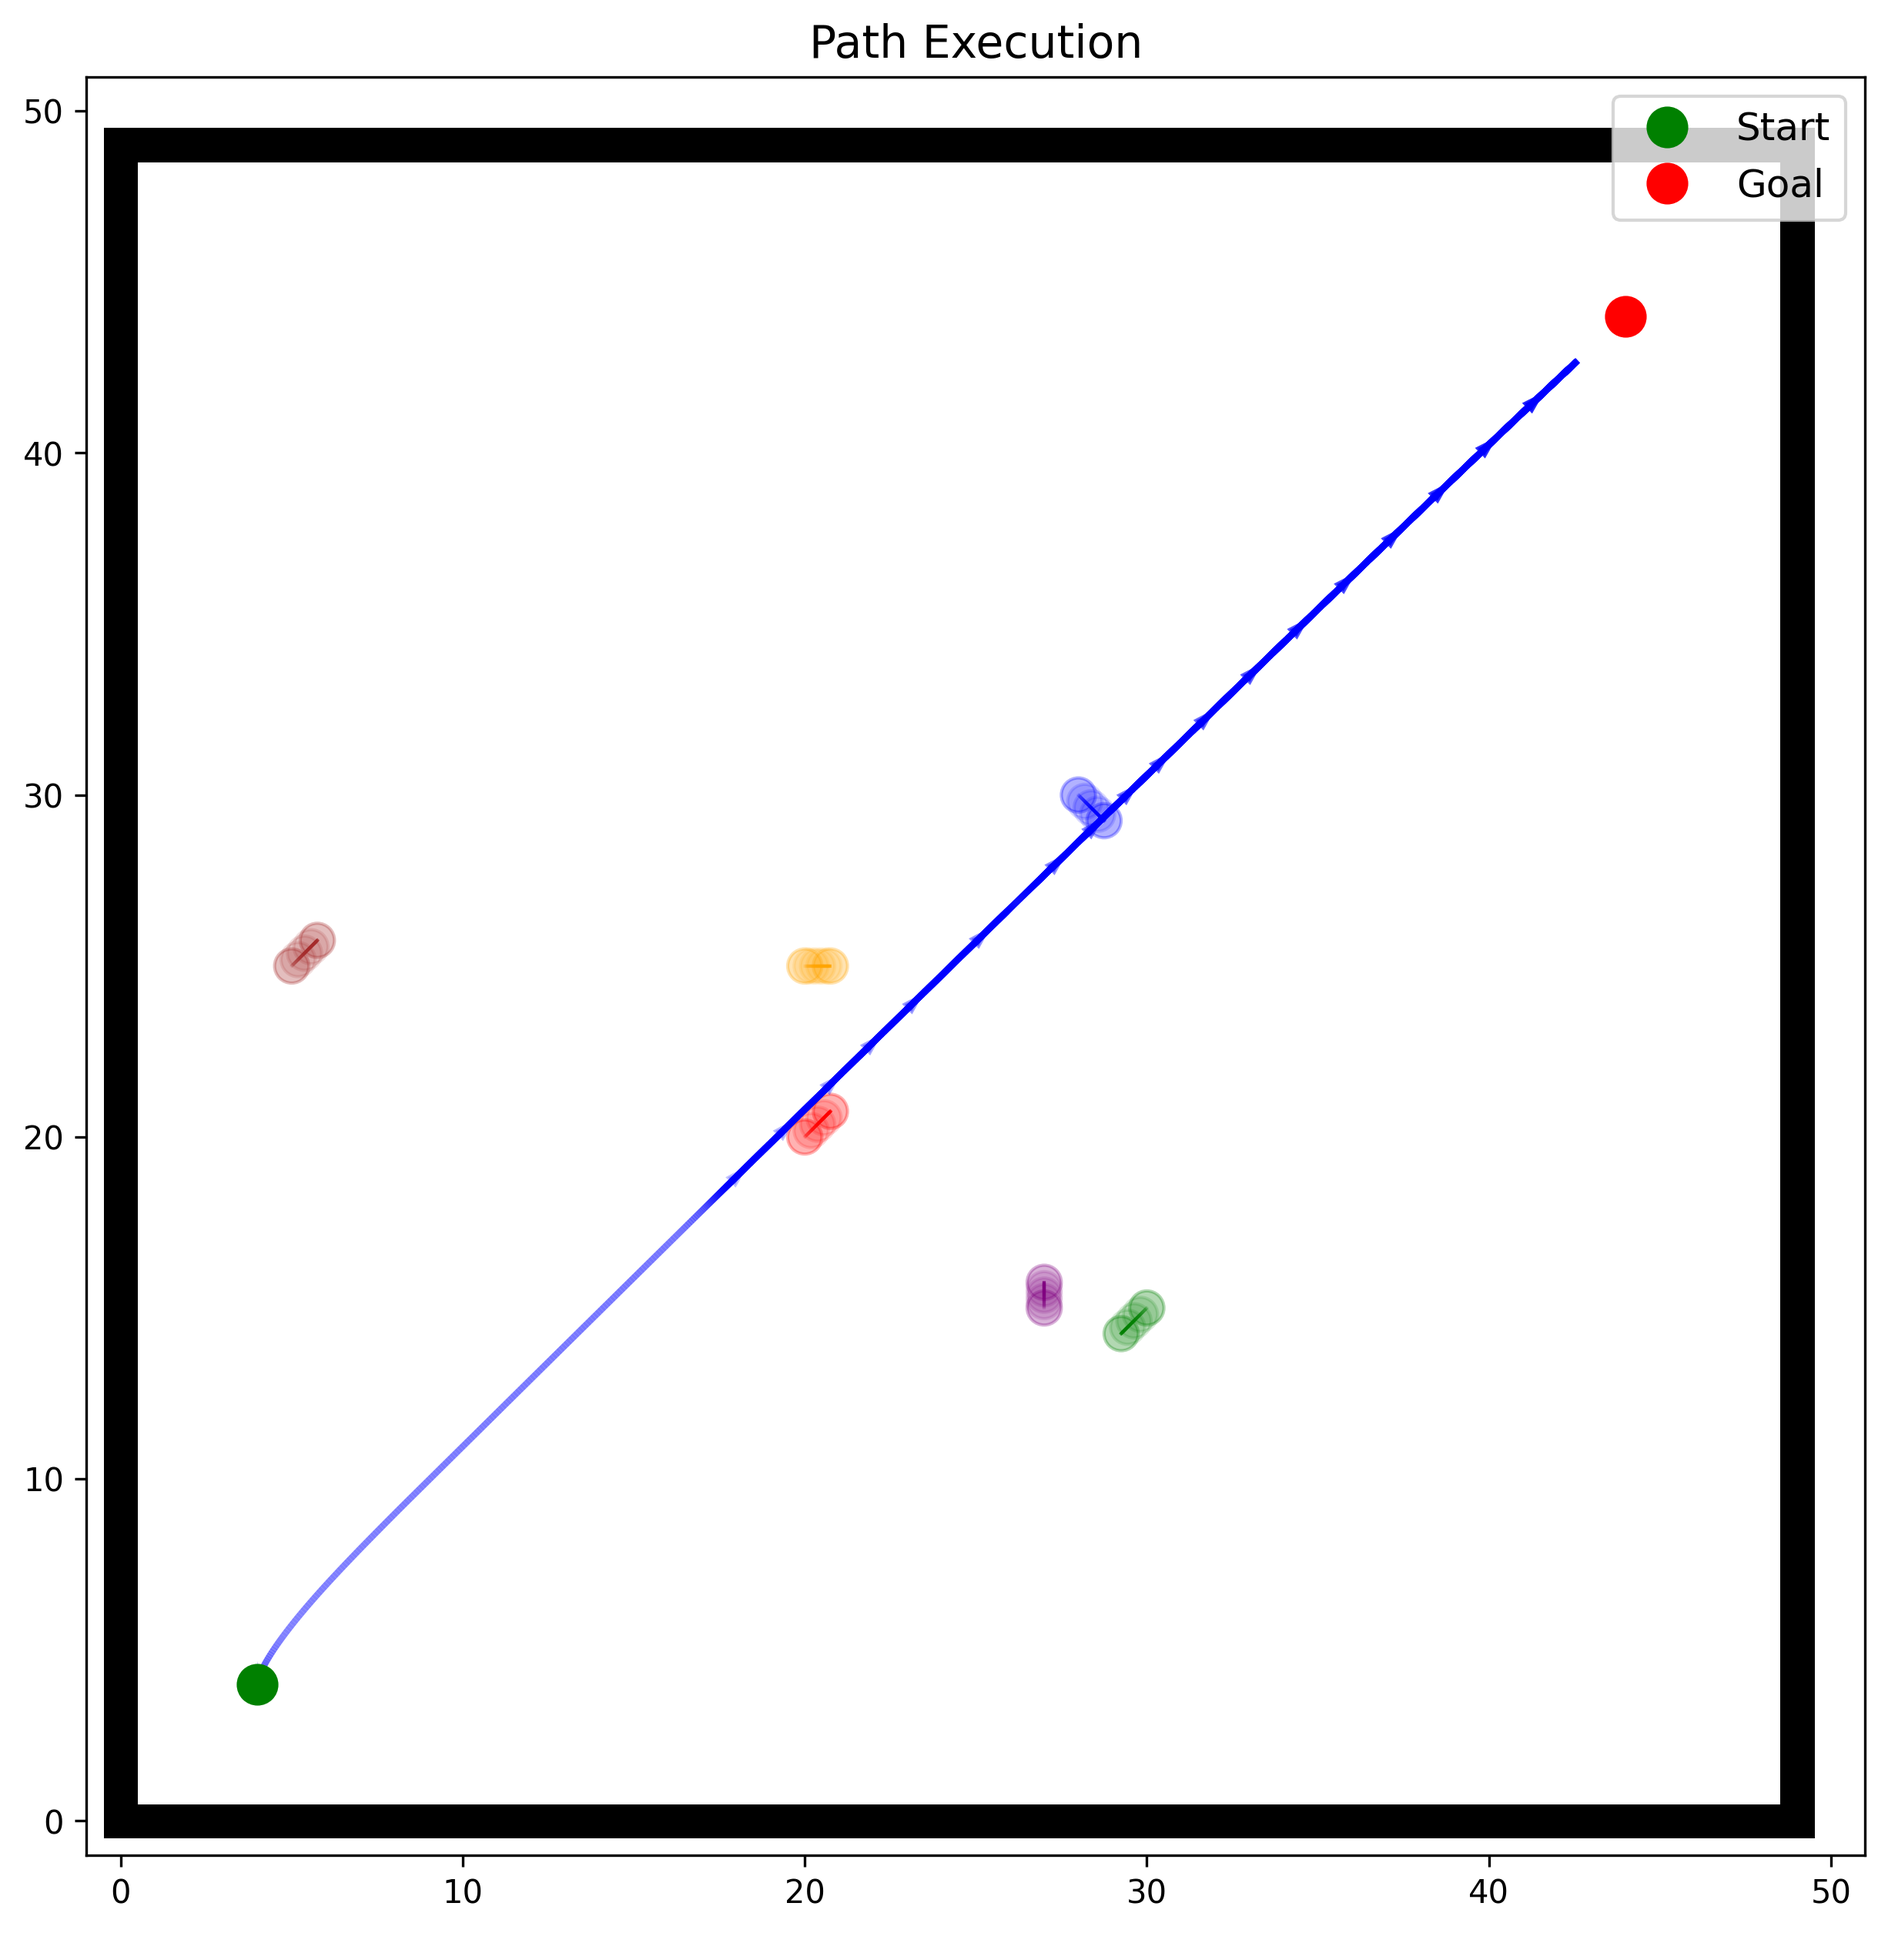
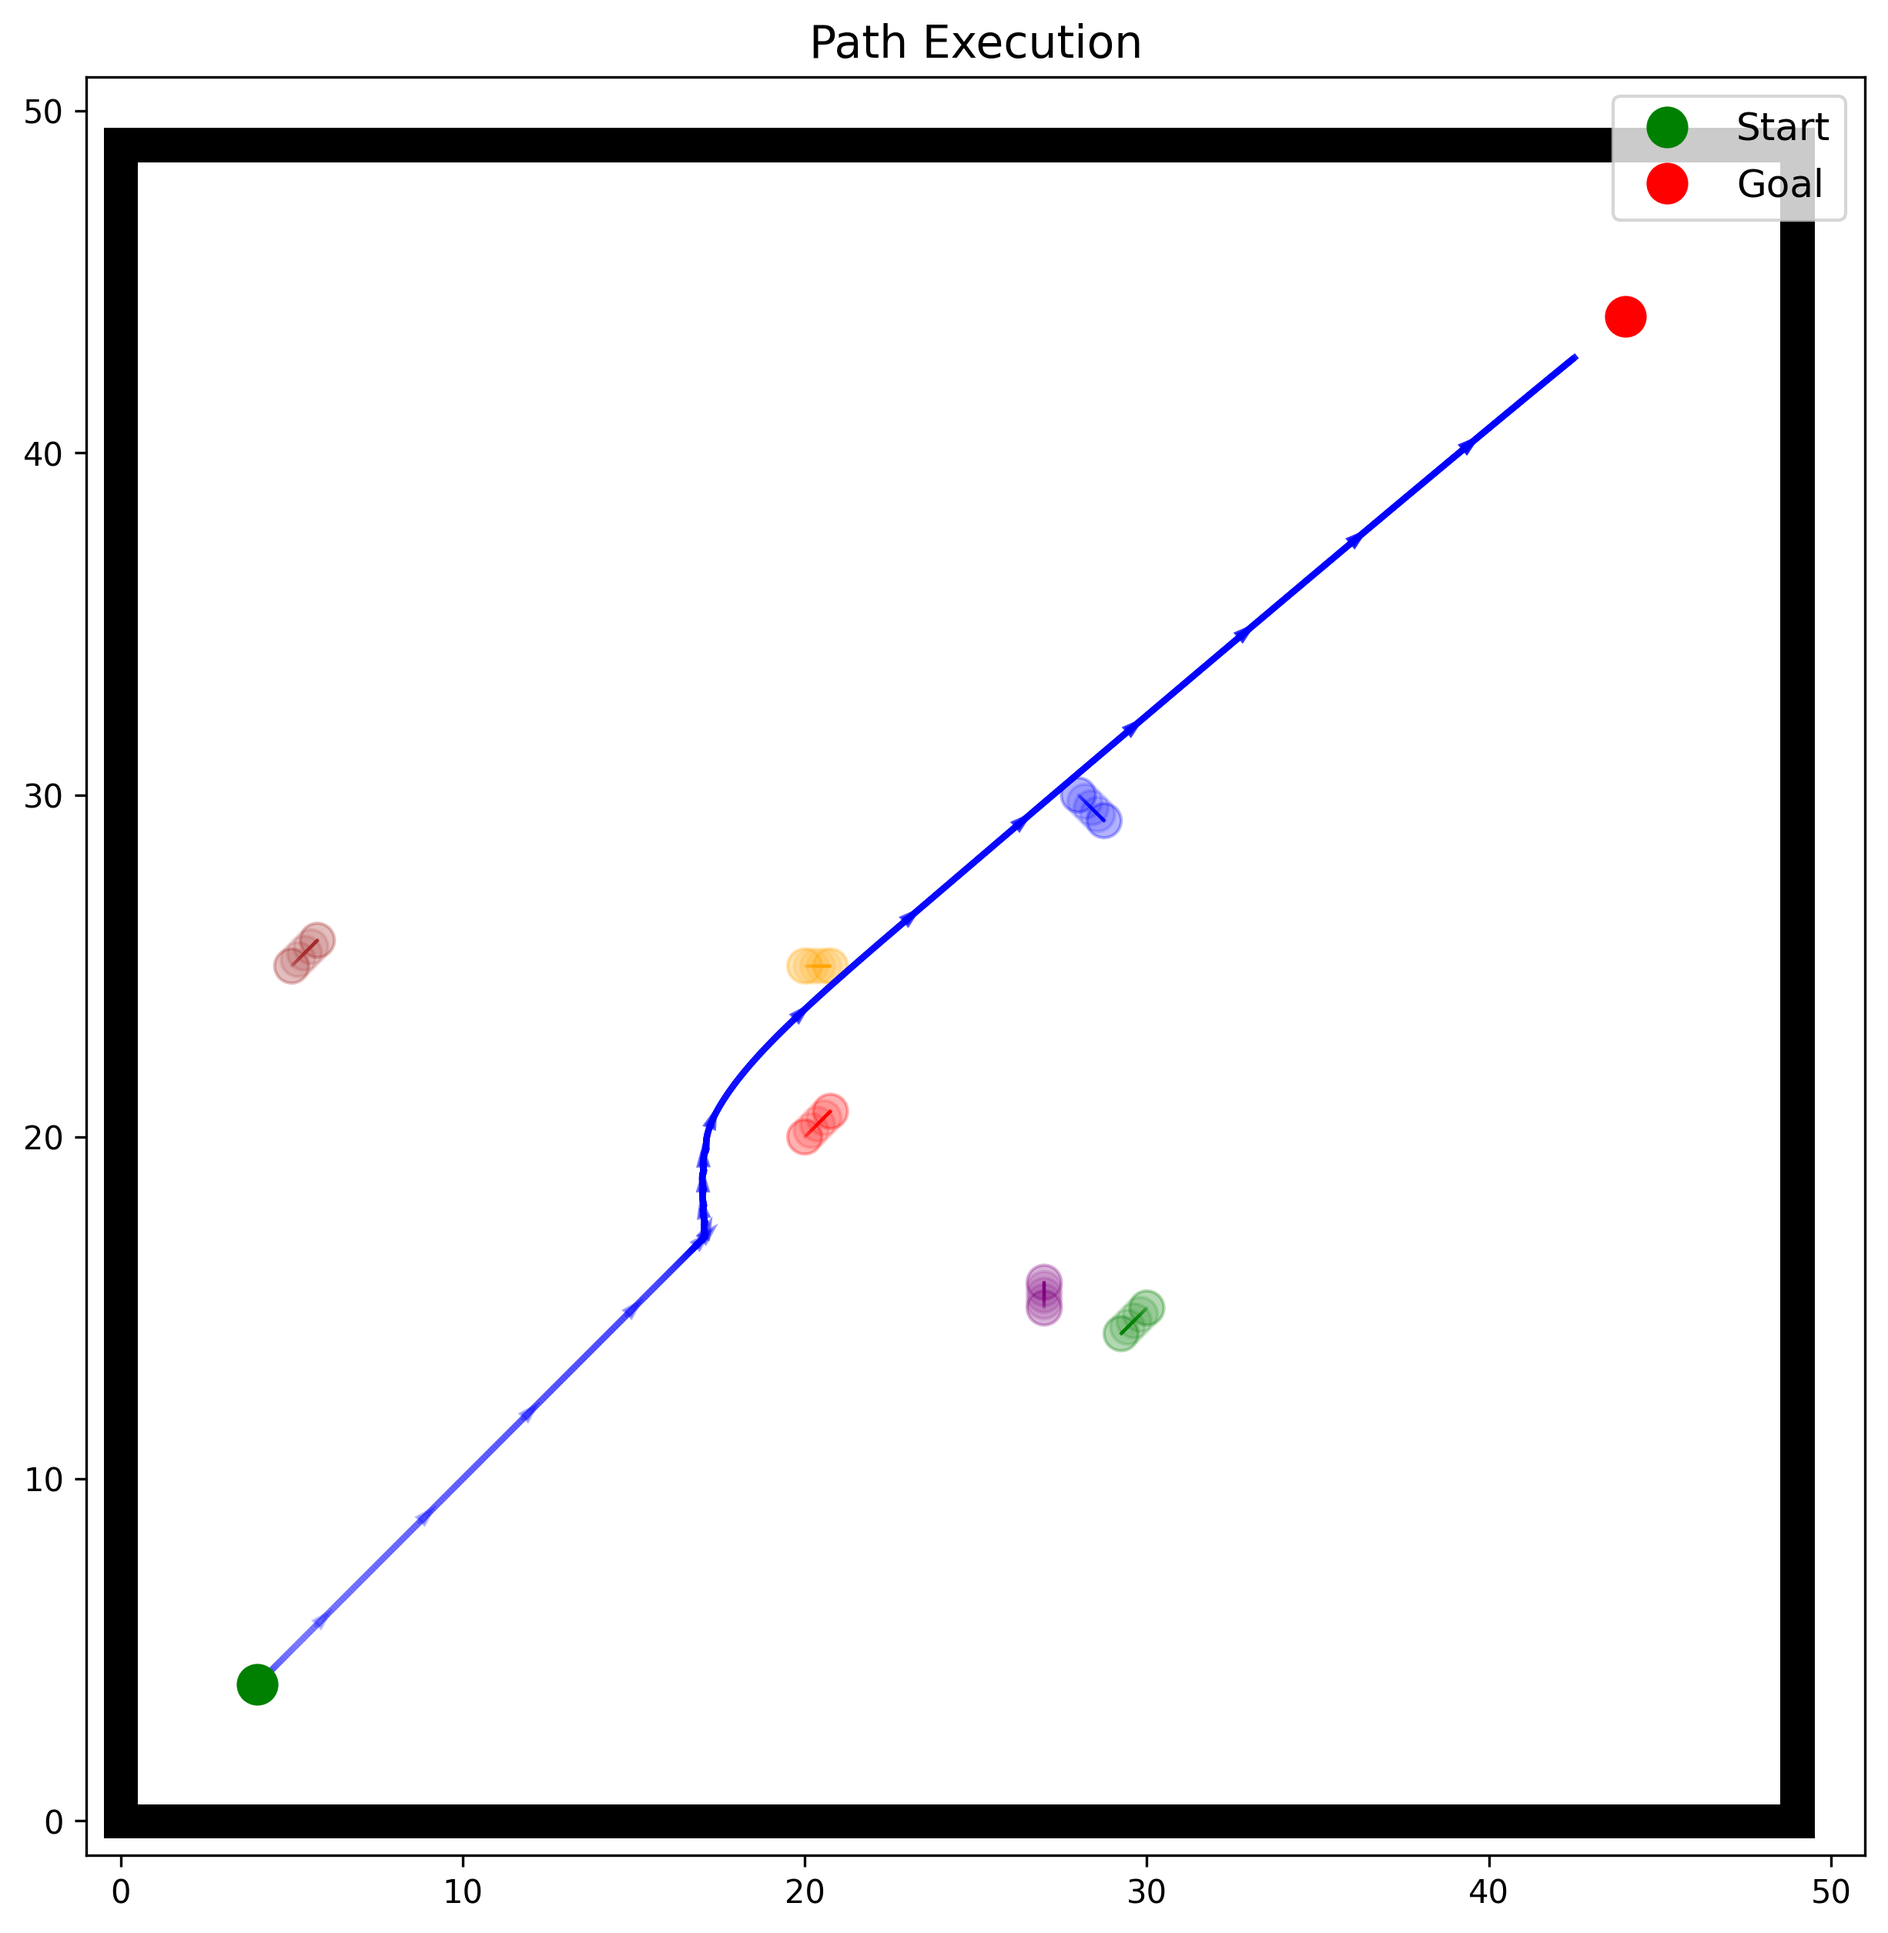
yay

diff --git a/maze_runner_dynamic.py b/maze_runner_dynamic.py
@@ -502,7 +502,7 @@ def run_simulation_astar_dwa(maze, obstacles, start, goal, dynamic_obstacles, nu
     return avg_path_length, avg_time, best_trajectory, success_rate
 def run_simulation_dwa(maze, obstacles, start, goal, dynamic_obstacles, num_runs=10, visualize=False):
     config = Config()
-    config.robot_radius = 2.0  # Same as maze_runner.py
+    config.robot_radius = 2.0
     config.max_speed = 1.0
     config.obstacle_cost_gain = 8.0
     config.to_goal_cost_gain = 3.0
@@ -510,14 +510,19 @@ def run_simulation_dwa(maze, obstacles, start, goal, dynamic_obstacles, num_runs
     
     # Convert static wall boundaries and obstacles
     wall_obstacles = convert_walls_to_obstacles(maze)
-    all_obstacles = obstacles + wall_obstacles
+    
+    # Convert dynamic obstacles to static format and add to obstacles
+    static_dynamic_obstacles = [(obs['x'], obs['y'], obs['radius']) for obs in dynamic_obstacles]
+    all_obstacles = obstacles + wall_obstacles + static_dynamic_obstacles
+    
+    # Convert to numpy array format for DWA
+    static_ob = np.array([[obs[0], obs[1]] for obs in all_obstacles])
     
     total_path_length = 0
     total_time = 0
     successful_runs = 0
     best_trajectory = None
     best_path_length = float('inf')
-  
 
     for run_index in range(num_runs):
         print(f"\nStarting DWA run {run_index + 1}/{num_runs}")
@@ -527,30 +532,14 @@ def run_simulation_dwa(maze, obstacles, start, goal, dynamic_obstacles, num_runs
         initial_angle = math.atan2(goal[1] - start[1], goal[0] - start[0])
         x = np.array([start[0], start[1], initial_angle, 0.0, 0.0])
         trajectory = np.array([[x[0], x[1]]])
-        simulation_time = 0
 
         while True:   
-            # Get current static obstacles
-            static_ob = np.array([[obs[0], obs[1]] for obs in all_obstacles])
-            
-            # Add current positions of dynamic obstacles
-            for obs in dynamic_obstacles:
-                current_x = obs['x'] + obs['vx'] * simulation_time
-                current_y = obs['y'] + obs['vy'] * simulation_time
-                # Add multiple points around dynamic obstacle for better detection
-                angles = np.linspace(0, 2*np.pi, 8)
-                for angle in angles:
-                    obs_x = current_x + obs['radius'] * np.cos(angle)
-                    obs_y = current_y + obs['radius'] * np.sin(angle)
-                    static_ob = np.vstack((static_ob, [obs_x, obs_y]))
-            
             # DWA control
             u, predicted_trajectory = dwa_control(x, config, goal, static_ob)
             
             # Update robot state
             x = motion(x, u, config.dt)
             trajectory = np.vstack((trajectory, [x[0], x[1]]))
-            simulation_time += config.dt
             
             # Check if goal reached
             dist_to_goal = np.hypot(x[0] - goal[0], x[1] - goal[1])
@@ -559,26 +548,24 @@ def run_simulation_dwa(maze, obstacles, start, goal, dynamic_obstacles, num_runs
                 successful_runs += 1
                 break
             
-            # Check collision with current dynamic obstacles
+            # Check for collisions with all obstacles
             collision = False
             robot_pos = np.array([x[0], x[1]])
-            for obs in dynamic_obstacles:
-                current_x = obs['x'] + obs['vx'] * simulation_time
-                current_y = obs['y'] + obs['vy'] * simulation_time
-                obs_pos = np.array([current_x, current_y])
+            for obs in all_obstacles:
+                obs_pos = np.array([obs[0], obs[1]])
                 dist = np.linalg.norm(robot_pos - obs_pos)
-                if dist <= (config.robot_radius + obs['radius']):
+                if dist <= (config.robot_radius + obs[2]):
                     collision = True
+                    print(f"Collision detected in run {run_index + 1}")
                     break
             
             if collision:
-                print(f"Collision detected in run {run_index + 1}")
                 break
 
         end_time = time.time()
         
         # Only count successful runs
-        if not collision :
+        if not collision:
             path_length = np.sum(np.sqrt(np.sum(np.diff(trajectory, axis=0)**2, axis=1)))
             total_path_length += path_length
             total_time += end_time - start_time
